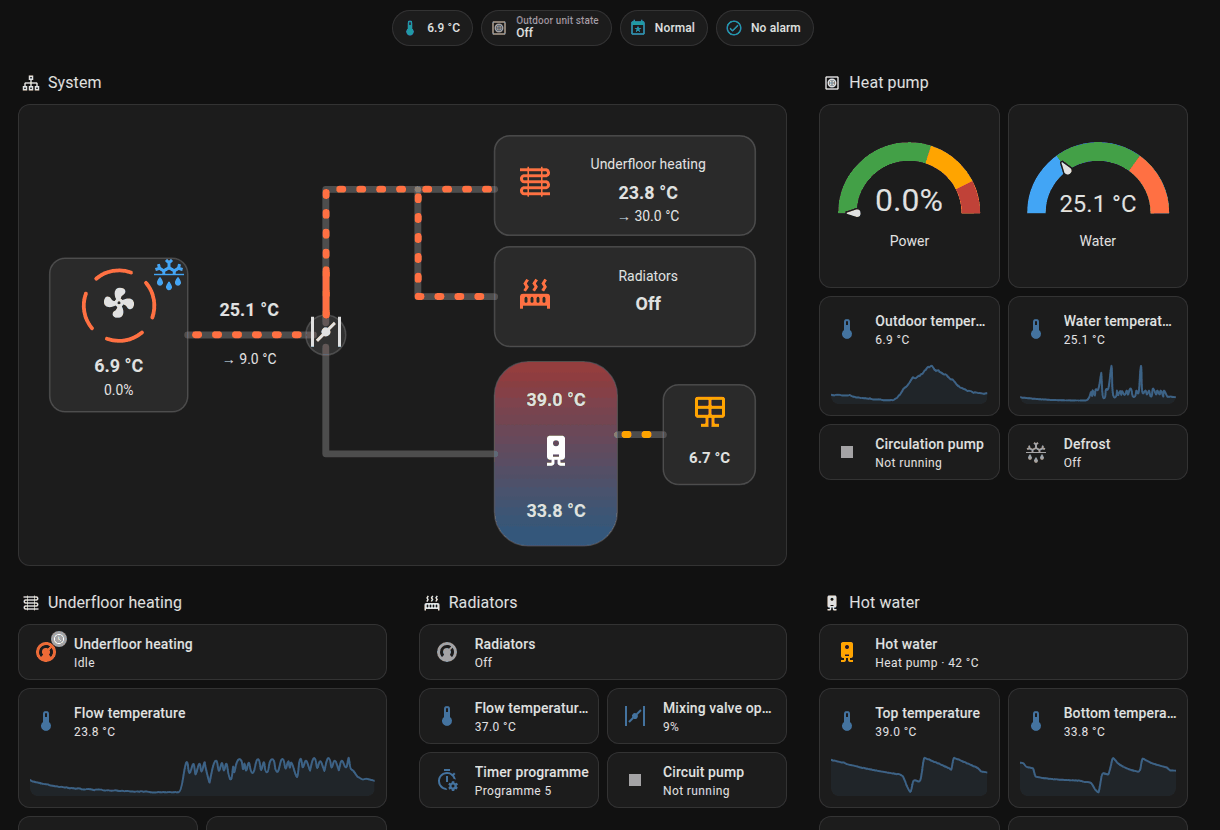
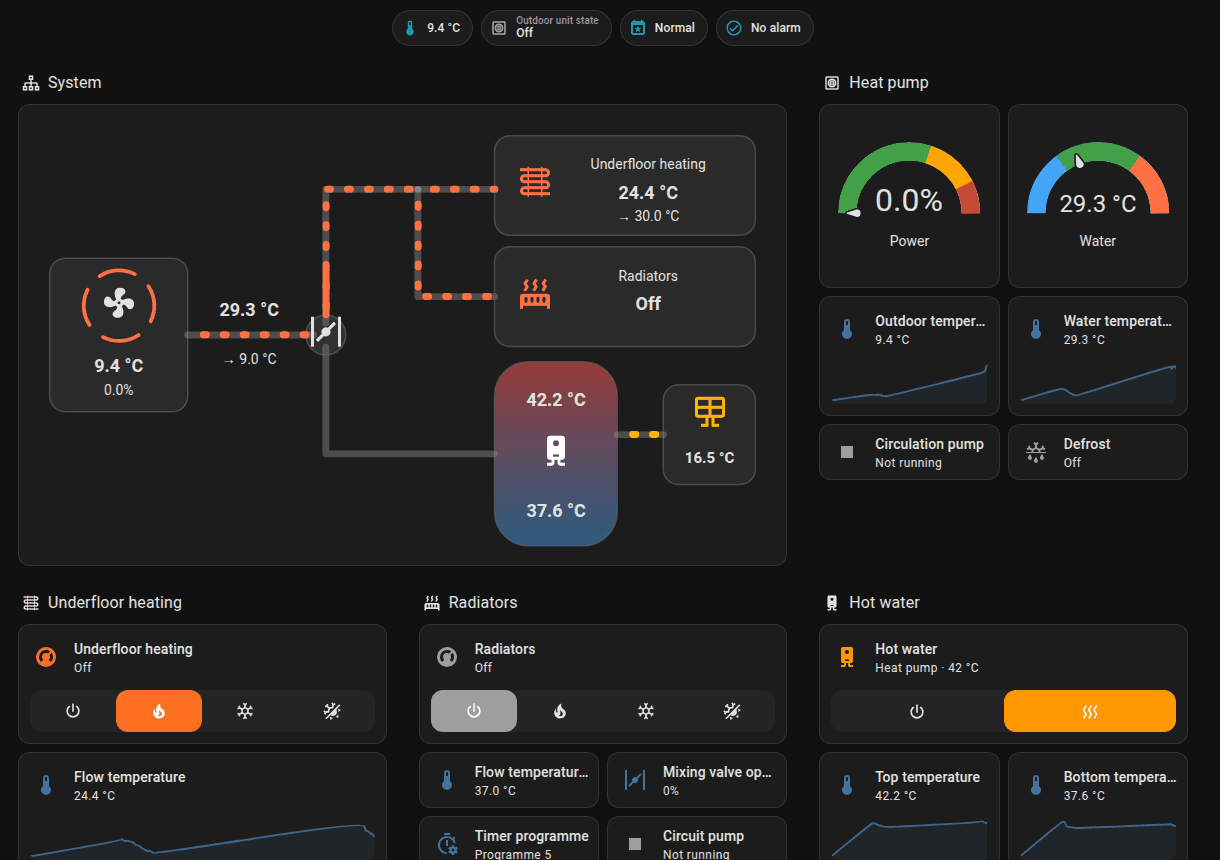
Phase 6: live write tests passed, dashboard gets its mode buttons
With the user's agreement, the system off and no alarm: 65 settings changed
by one step through Home Assistant's own actions, read back and restored,
141 writes in all. Every answer S_OK, no failed poll, no warning, no other
setting moved at any point, and every writable setting equalled the baseline
at the end. The display answers a write like a read record and a new value is
readable at once, so the client needs no change. The climate writes mode, then
enable.

One open point: the pump accepted Eco for the operating programme, then went
back to Normal by itself within 5 seconds. Not explained yet; the README says
so. Tier C wasn't run.

With writes proven, the dashboard has mode buttons on the circuits and on hot
water.

diff --git a/tools/build_dashboard.py b/tools/build_dashboard.py
@@ -83,6 +83,11 @@ SOLAR_PIPE = "M780 430 H840"
 VALVE_TO_HEATING = "M400 274 V215"
 VALVE_TO_TANK = "M400 326 V385"
 
+HVAC_MODES = {
+    "type": "climate-hvac-modes",
+    "hvac_modes": ["off", "heat", "cool", "heat_cool"],
+}
+
 PUMP = "binary_sensor.heat_pump_circulation_pump"
 VALVE = "sensor.heat_pump_3_way_valve"
 OUTDOOR_STATE = "sensor.heat_pump_outdoor_unit_state"
@@ -440,7 +445,11 @@ def _overview(text: dict[str, str]) -> dict[str, Any]:
             _section(
                 text["floor"],
                 "mdi:heating-coil",
-                _main_tile("climate.underfloor_heating", state_content="hvac_action"),
+                _main_tile(
+                    "climate.underfloor_heating",
+                    state_content="hvac_action",
+                    features=[HVAC_MODES],
+                ),
                 _trend(
                     "sensor.underfloor_heating_flow_temperature",
                     grid_options={"columns": "full", "rows": 2},
@@ -452,7 +461,11 @@ def _overview(text: dict[str, str]) -> dict[str, Any]:
             _section(
                 text["radiators"],
                 "mdi:radiator",
-                _main_tile("climate.radiators", state_content="hvac_action"),
+                _main_tile(
+                    "climate.radiators",
+                    state_content="hvac_action",
+                    features=[HVAC_MODES],
+                ),
                 _tile("number.radiators_flow_temperature_setpoint"),
                 _tile("sensor.radiators_mixing_valve_opening"),
                 _tile("select.radiators_timer_programme"),
@@ -464,6 +477,12 @@ def _overview(text: dict[str, str]) -> dict[str, Any]:
                 _main_tile(
                     "water_heater.hot_water",
                     state_content=["state", "temperature"],
+                    features=[
+                        {
+                            "type": "water-heater-operation-modes",
+                            "operation_modes": ["off", "heat_pump"],
+                        }
+                    ],
                 ),
                 _trend("sensor.hot_water_top_temperature"),
                 _trend("sensor.hot_water_bottom_temperature"),

diff --git a/custom_components/orca_heatpump/client/protocol.py b/custom_components/orca_heatpump/client/protocol.py
@@ -109,9 +109,8 @@ def parse_login(text: str) -> str:
 def parse_write_status(text: str, tag: str) -> str | None:
     """Return the status a writeTags response gives for a tag, if it gives one.
 
-    Reads nothing else: the format of a write response has not been seen
-    live, and a surprise here must not fail a write that landed. The read
-    back decides.
+    Reads nothing else: a surprise here must not fail a write that landed, and
+    the read back decides. The real display answers like a read record.
     """
     raise_for_error(text)
     for line in text.replace("\r", "").split("\n"):

diff --git a/docs/phase6-write-test-plan.md b/docs/phase6-write-test-plan.md
@@ -1,9 +1,37 @@
 # Phase 6: live write test plan
 
-For CP2. **Nothing here runs until the user agrees in the conversation and is
-present** (`PLAN.md` §2.2, §2.3). Values are from 2026-11-05 and only show the
+The plan agreed at CP2. Anything further needs the user's agreement in the conversation
+and them present (`PLAN.md` §2.2, §2.3). Values are from 2026-11-05 and only show the
 size of each change: the "now" value is read again right before each write, and
 that is what gets restored.
+
+## Result (2026-11-07)
+
+Run with the user's agreement, with the system switched off and no alarm, after they
+had turned off the old integration and power cycled the pump. **Passed.**
+
+- **65 settings** (Tier A and B), 141 writes through Home Assistant's own actions.
+  Each changed by one step, read back and restored. Every answer `S_OK`, no failed
+  poll, no warning, no alarm, and no other setting moved at any point (checked after
+  every write). At the end every writable setting equalled the baseline.
+- **The display answers a write like a read record:** `#tag`, `S_OK`, then quality
+  and value. A new value is readable at once, so the read-back needs no wait. One
+  value held across several polls for 80 seconds.
+- **Combined actions:** the climate writes the mode, then the enable, 0.5 s apart.
+  Turning on and off, and a hot water temperature set with an operation, work too.
+- **One setting didn't hold: the operating programme.** The pump accepted Eco and read
+  it back, then went back to Normal by itself within 5 seconds. Every other setting
+  kept its test value until restored. Not explained yet: either a programme can't start
+  with the system off, or `2_Delovanje_MENI` only shows the programme and another tag
+  starts it (`2_ECO`, `2_PARTY`, `2_POCITNISKI`: coils, all 0, purpose unknown). The
+  recorded ECO duration on this pump is 8 hours, so a zero duration isn't the cause.
+- **Not run:** Tier C (not chosen), and the six settings below that are not tested
+  live. With the system off, nothing here shows how the pump *acts* on a new value.
+- The hidden test entities were disabled again, by the user rather than by the
+  integration, because the API doesn't allow setting that back. It makes no practical
+  difference.
+
+The full log is in `research/captures/write_tests.md` (not in the repository).
 
 ## What it proves
 
@@ -57,9 +85,7 @@ inside the manufacturer's range, one step from the current value.
 
 ## Afterwards
 
-Once writes are proven, add one-tap controls to the dashboard
-(`tools/build_dashboard.py`): mode buttons on the climates, on/off on the water
-heater. Until then it deliberately has none: tapping opens the details.
+Done: the dashboard has mode buttons on the climates and on the water heater.
 
 ## Settings
 

diff --git a/docs/progress.md b/docs/progress.md
@@ -1,7 +1,9 @@
 # Progress
 
-**CP2 answered; waiting for the user to say when Phase 6 may start.** Phase 5 is
-done and nothing has been written to the pump.
+**Phase 6 live write tests passed on 2026-11-07, with one open point: the operating
+programme** (see the result in `docs/phase6-write-test-plan.md`). Waiting for the
+user's answers on it and on Tier C; Phase 7 is next. The system was left off, as the
+user had it.
 
 ## Dashboard (user's request, 2026-11-05)
 
@@ -13,7 +15,7 @@ deployed to the dev HA as "Heat pump" in the sidebar.
   mini-graph-card, button-card, apexcharts-card) and not needed.
 - A live system diagram (picture-elements over inlined SVG), sections with tiles,
   gauges and trend graphs, a Trends view with history and the alarm log.
-- No one-tap controls until the write test has passed; see the Phase 6 plan.
+- Mode buttons on the circuits and hot water, added once the write test had passed.
 - Tests: the files are current, no custom cards, and every entity exists and is
   enabled by default on our pump.
 - Checked with headless Chrome: dark, light, phone width, no card errors; the pipes

diff --git a/README.md b/README.md
@@ -170,8 +170,8 @@ headings:
    and `radiators` with yours (see their entity IDs), and delete the parts your pump
    doesn't have.
 
-Tapping anything opens its details, where you can change it; there are no one-tap
-controls on the dashboard itself.
+The mode buttons on the circuits and on hot water act at once. Anything else opens
+its details when tapped, where you can change it.
 
 ## How data is updated
 
@@ -296,6 +296,9 @@ programmes for daily schedules.
 - Values refresh every 30 seconds, timer programmes every hour.
 - The room setpoint range (10–35 °C) comes from the older integration, not the
   manufacturer's data, and no pump with a room sensor has been tested live yet.
+- **Operating programme:** on the tested pump, with the system switched off, Eco went
+  back to Normal by itself within seconds. Whether Party, Eco and Holiday work from
+  Home Assistant with the system on isn't known yet.
 - The same display added under both its IP address and a host name isn't
   recognised as one display; the display has no ID of its own.
 

diff --git a/docs/supported-setups.md b/docs/supported-setups.md
@@ -20,9 +20,12 @@ Faults the display can produce (lost connection, refused logins, expired
 sessions, dropped records, malformed answers, values nobody has seen yet)
 are tested against an emulator of the display (`tools/emulator/`).
 
-Not tested live yet: a pump with a room sensor, cooling, a third heating
-circuit, a buffer tank, and any write (writes are tested against the
-emulator only so far).
+Writes were tested live on the Duo 300 Solar with the system switched off: 65
+settings, each changed by one step, read back and restored. See
+`docs/phase6-write-test-plan.md` for what was left out.
+
+Not tested live yet: a pump with a room sensor, cooling in operation, a third
+heating circuit, a buffer tank, and the writes left out of that test.
 
 ## Add your setup
 

diff --git a/PLAN.md b/PLAN.md
@@ -1,6 +1,6 @@
 # Orca heat pump integration — rewrite master plan
 
-Status: **P0–P5 done; CP2 answered (2026-11-05); P6 waits for the user to say when; see `docs/progress.md`** · Written 2026-10-30 ·
+Status: **P0–P6 done (2026-11-07), one open point on the operating programme; P7 next; see `docs/progress.md`** · Written 2026-10-30 ·
 Owner: @rp9376 (GitHub) · Domain: `orca_heatpump`
 
 This is the brief for the lead agent (Claude Fable) that builds a new Home
